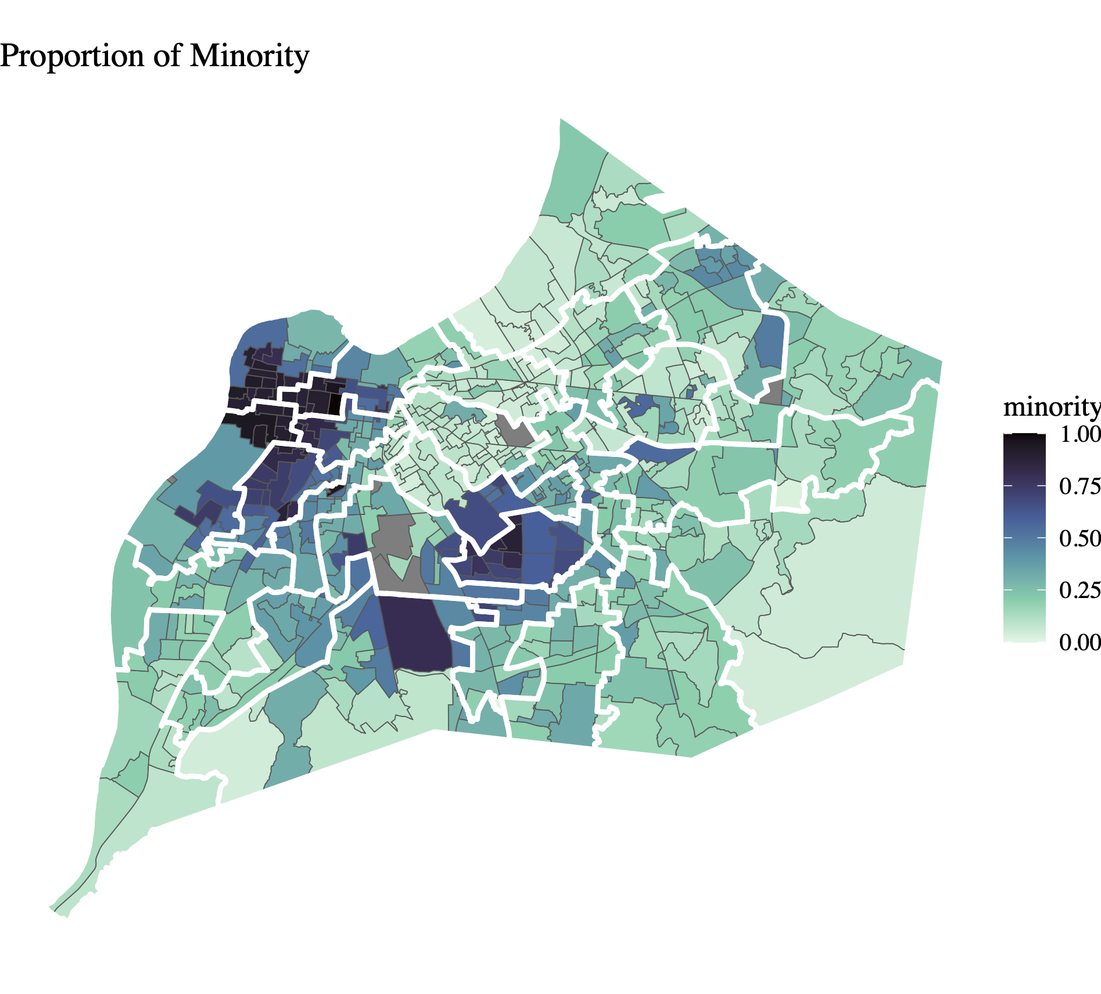
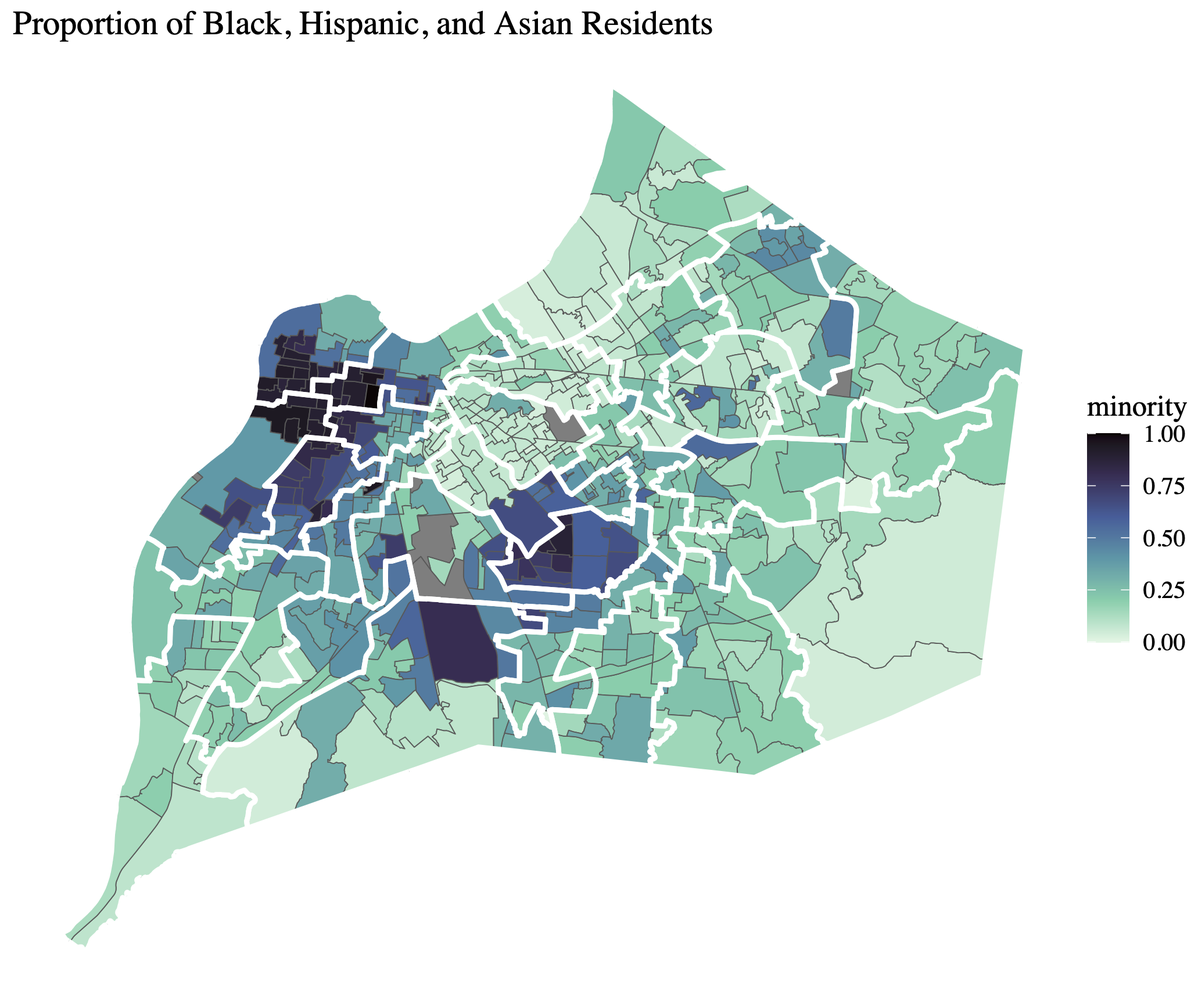
updates

diff --git a/_posts/2023-10-26-louisvillejefferson-county-metro-government-balance-kentucky/louisvillejefferson-county-metro-government-balance-kentucky.html b/_posts/2023-10-26-louisvillejefferson-county-metro-government-balance-kentucky/louisvillejefferson-county-metro-government-balance-kentucky.html
@@ -94,8 +94,8 @@ code span.wa { color: #5e5e5e; font-style: italic; } /* Warning */
 
 
   <!--  https://schema.org/Article -->
-  <meta property="article:published" itemprop="datePublished" content="2023-10-26"/>
-  <meta property="article:created" itemprop="dateCreated" content="2023-10-26"/>
+  <meta property="article:published" itemprop="datePublished" content="2023-12-04"/>
+  <meta property="article:created" itemprop="dateCreated" content="2023-12-04"/>
   <meta name="article:author" content="Itsuki Umeyama"/>
 
   <!--  https://developers.facebook.com/docs/sharing/webmasters#markup -->
@@ -113,7 +113,7 @@ code span.wa { color: #5e5e5e; font-style: italic; } /* Warning */
   <!--radix_placeholder_rmarkdown_metadata-->
 
   <script type="text/json" id="radix-rmarkdown-metadata">
-  {"type":"list","attributes":{"names":{"type":"character","attributes":{},"value":["title","description","author","date","output"]}},"value":[{"type":"character","attributes":{},"value":["Louisville/Jefferson County metro government (balance), Kentucky"]},{"type":"character","attributes":{},"value":["An analysis of the electoral competitiveness of Louisville Metro Council Elections.\n"]},{"type":"list","attributes":{},"value":[{"type":"list","attributes":{"names":{"type":"character","attributes":{},"value":["name"]}},"value":[{"type":"character","attributes":{},"value":["Itsuki Umeyama"]}]}]},{"type":"character","attributes":{},"value":["2023-10-26"]},{"type":"list","attributes":{"names":{"type":"character","attributes":{},"value":["distill::distill_article"]}},"value":[{"type":"list","attributes":{"names":{"type":"character","attributes":{},"value":["self_contained"]}},"value":[{"type":"logical","attributes":{},"value":[false]}]}]}]}
+  {"type":"list","attributes":{"names":{"type":"character","attributes":{},"value":["title","description","author","date","output"]}},"value":[{"type":"character","attributes":{},"value":["Louisville/Jefferson County metro government (balance), Kentucky"]},{"type":"character","attributes":{},"value":["An analysis of the electoral competitiveness of Louisville Metro Council Elections.\n"]},{"type":"list","attributes":{},"value":[{"type":"list","attributes":{"names":{"type":"character","attributes":{},"value":["name"]}},"value":[{"type":"character","attributes":{},"value":["Itsuki Umeyama"]}]}]},{"type":"character","attributes":{},"value":["2023-12-04"]},{"type":"list","attributes":{"names":{"type":"character","attributes":{},"value":["distill::distill_article"]}},"value":[{"type":"list","attributes":{"names":{"type":"character","attributes":{},"value":["self_contained"]}},"value":[{"type":"logical","attributes":{},"value":[false]}]}]}]}
   </script>
   <!--/radix_placeholder_rmarkdown_metadata-->
   
@@ -1521,7 +1521,7 @@ code span.wa { color: #5e5e5e; font-style: italic; } /* Warning */
 <!--radix_placeholder_front_matter-->
 
 <script id="distill-front-matter" type="text/json">
-{"title":"Louisville/Jefferson County metro government (balance), Kentucky","description":"An analysis of the electoral competitiveness of Louisville Metro Council Elections.","authors":[{"author":"Itsuki Umeyama","authorURL":"#","affiliation":"&nbsp;","affiliationURL":"#","orcidID":""}],"publishedDate":"2023-10-26T00:00:00.000+09:00","citationText":"Umeyama, 2023"}
+{"title":"Louisville/Jefferson County metro government (balance), Kentucky","description":"An analysis of the electoral competitiveness of Louisville Metro Council Elections.","authors":[{"author":"Itsuki Umeyama","authorURL":"#","affiliation":"&nbsp;","affiliationURL":"#","orcidID":""}],"publishedDate":"2023-12-04T00:00:00.000+09:00","citationText":"Umeyama, 2023"}
 </script>
 
 <!--/radix_placeholder_front_matter-->
@@ -1542,134 +1542,89 @@ code span.wa { color: #5e5e5e; font-style: italic; } /* Warning */
   
   Itsuki Umeyama
   
-<br/>2023-10-26
+<br/>2023-12-04
 </div>
 
 <div class="d-article">
-<h2 id="basic-information">Basic Information</h2>
-<h3 id="demographic">Demographic</h3>
-<p>Population<a href="#fn1" class="footnote-ref" id="fnref1" role="doc-noteref"><sup>1</sup></a>: 386,884</p>
-<table>
-<thead>
-<tr class="header">
-<th></th>
-<th>Percentage</th>
-</tr>
-</thead>
-<tbody>
-<tr class="odd">
-<td>White</td>
-<td>67.1%</td>
-</tr>
-<tr class="even">
-<td>Black or African American</td>
-<td>23.8%</td>
-</tr>
-<tr class="odd">
-<td>Hispanic or Latino</td>
-<td>6.5%</td>
-</tr>
-<tr class="even">
-<td>Asian</td>
-<td>2.7%</td>
-</tr>
-</tbody>
-</table>
-<figure>
-<img src="images/minority.png" style="width:80.0%" data-fig-align="center" alt="Figure 1: This map shows the proportion of minorities within each precinct in Louisville. Darker shades of blue indicate a higher proportion of minorities, including Black, Hispanic, and Asian populations, living in the precinct compared to the majority, White population. The thinner black lines represent precinct boundaries, while the thicker white lines represent current district boundaries." />
-<figcaption aria-hidden="true">Figure 1: This map shows the proportion of minorities within each precinct in Louisville. Darker shades of blue indicate a higher proportion of minorities, including Black, Hispanic, and Asian populations, living in the precinct compared to the majority, White population. The thinner black lines represent precinct boundaries, while the thicker white lines represent current district boundaries.</figcaption>
-</figure>
-<h3 id="louisville-metro-council">Louisville Metro Council</h3>
-<p>The Louisville Metro Council comprises 26 members who are elected from the city’s 26 districts in partisan elections. Council members serve staggered four-year terms. Since the merger with Jefferson County in 2003, the council has consistently maintained a Democratic majority. The distribution of seats held by each party is as follows (Democrats: Republicans): 15:11 (2006), 17:9 (2010), 17:9 (2014), 19:7 (2018), and 17:9 (2022)<a href="#fn2" class="footnote-ref" id="fnref2" role="doc-noteref"><sup>2</sup></a>.</p>
-<h3 id="mayoral-elections">Mayoral Elections</h3>
-<p>Democratic candidates have also consistently won in mayoral elections in Louisville. The margins between Democratic and Republican candidates have usually been substantial, often ranging from 30 to 40 percent. However, these elections can still appear competitive. For example, in the 2022 mayoral election, the margin between both candidates was only 6 percent. Additionally, the margin in the 2010 mayoral election was narrower, with a difference of just 3 percent.</p>
-<table>
-<thead>
-<tr class="header">
-<th>Year</th>
-<th style="text-align: left;">DEM</th>
-<th style="text-align: left;">REP</th>
-</tr>
-</thead>
-<tbody>
-<tr class="odd">
-<td>2006</td>
-<td style="text-align: left;">Jerry Abramson (67.2%)</td>
-<td style="text-align: left;">Kelly Downard (31.3%)</td>
-</tr>
-<tr class="even">
-<td>2010</td>
-<td style="text-align: left;">Greg Fischer (51.1%)</td>
-<td style="text-align: left;">Hal Heiner (48.4%)</td>
-</tr>
-<tr class="odd">
-<td>2014</td>
-<td style="text-align: left;">Greg Fischer (68.5%)</td>
-<td style="text-align: left;">Bob DeVore (31.3%)</td>
-</tr>
-<tr class="even">
-<td>2018</td>
-<td style="text-align: left;">Greg Fischer (61.0%)</td>
-<td style="text-align: left;">Angela Leet (36.3%)</td>
-</tr>
-<tr class="odd">
-<td>2022</td>
-<td style="text-align: left;">Craig Greenberg (51.7%)</td>
-<td style="text-align: left;">William Dieruf (46.2%)</td>
-</tr>
-</tbody>
-</table>
-<figure>
-<img src="images/precincts_voting_behavior.png" style="width:80.0%" data-fig-align="center" alt="Figure 2: This map displays precinct-level voting shares in Louisville (2022 Mayoral Election). A darker shade indicates a larger number of voters supporting either of the parties within the precinct. The black lines represent the current district boundaries, each marked with its corresponding district number." />
-<figcaption aria-hidden="true">Figure 2: This map displays precinct-level voting shares in Louisville (2022 Mayoral Election). A darker shade indicates a larger number of voters supporting either of the parties within the precinct. The black lines represent the current district boundaries, each marked with its corresponding district number.</figcaption>
-</figure>
-<h2 id="competitiveness-in-metro-council-elections">Competitiveness in Metro Council Elections</h2>
-<p>Metro Council elections in Louisville appear to be relatively competitive, even with the strong Democratic presence. For example, in 2022, two Democrats lost their seats, resulting in a shift in the Metro Council’s composition from 19 Democrats and 7 Republicans to 17 Democrats and 9 Republicans.</p>
-<p>Nonetheless, the competitiveness of Metro Council elections can be significantly affected by the districting process, as council members are chosen from each district. Similar to gerrymandering, changes in district plans can influence the level of competitiveness. While it may seem that Metro Council elections in Louisville are competitive, it remains uncertain how closely the current level of competitiveness aligns with an ideal state, given the absence of a baseline for comparison. Therefore, in the following sections, I will delve into assessing the competitiveness of Metro Council elections in Louisville.</p>
+<p><strong>Overview:</strong> How competitive are the Metro Council elections in Louisville, Kentucky? While elections ideally should be competitive, assessing the competitiveness is challenging due to the absence of a baseline for comparison. To address this, I first generate simulated plans using the Sequential Monte Carlo (SMC) algorithm and then calculate the baseline using these plans. I found that the competitiveness of the Metro Council elections significantly decreased in 19 out of 26 districts. Furthermore, additional analysis reveals that the reduced competitiveness has favored the Democratic incumbent, resulting in a gain of 2 seats.</p>
+<h2 id="competitiveness-in-louisville-metro-council-elections">Competitiveness in Louisville Metro Council Elections</h2>
+<p>A competitive election, challenging for both parties, is considered one of the essential elements of a healthy democracy. These elections allow a variety of candidates to present their ideas and perspectives, ensuring that a broad range of views is represented in the political process. Moreover, in such competitive elections, politicians are more likely to respond to the needs of the public out of fear of losing elections. As a result, competitive elections play a crucial role in securing both the representation of the public and the accountability of politicians.</p>
+<p>Metro Council elections in Louisville appear to be relatively competitive, even with the strong Democratic presence. In 2022 Metro Council elections, for example, the results of all 6 districts which had both Democrat and Republican candidates fell within a 10% margin. In addition, there were seat changes in two districts from Democrats to Republicans<a href="#fn1" class="footnote-ref" id="fnref1" role="doc-noteref"><sup>1</sup></a>.</p>
+<p>Nevertheless, the smaller margins in electoral results and the seat changes may not provide a complete picture of how closely the current competitiveness aligns with its potential level. The competitiveness of Metro Council elections can be significantly influenced by the district plan, and an alternative plan could ensure a higher level of competitiveness. Therefore, it is essential to assess the competitiveness by comparing it to its potential level, rather than solely relying on actual electoral results and seat changes.</p>
+<p>However, the absence of a baseline for comparison poses a challenge to such an assessment. This challenge stems from the requirement for numerous alternative district plans with the same redistricting rules, political geography, and physical geography as the enacted plan to establish a baseline for comparison.</p>
+<p>In the following sections, I will address this issue by using the SMC algorithm<a href="#fn2" class="footnote-ref" id="fnref2" role="doc-noteref"><sup>2</sup></a> to generate simulated plans, and assess the competitiveness of Metro Council elections in Louisville.</p>
 <h2 id="assessing-electoral-competitiveness-with-algorithm-assisted-redistricting-methodology">Assessing Electoral Competitiveness with Algorithm-Assisted Redistricting Methodology</h2>
 <h3 id="approach">Approach</h3>
-<p>Evaluating the baseline of competitiveness is a challenging task, but the Algorithm-Assisted Redistricting Methodology provides a valuable tool for determining where the standard level of competitiveness in Louisville should lie. Originally developed to identify gerrymandering, this methodology generates numerous plans with the same constraints<a href="#fn3" class="footnote-ref" id="fnref3" role="doc-noteref"><sup>3</sup></a>, political geography, and physical geography as the current district plan. Consequently, it provides an essential baseline for our assessment, which is particularly relevant when evaluating the competitiveness of the current district plan in Louisville.</p>
-<p>To generate the simulated plans using the Algorithm-Assisted Redistricting Methodology, a specific constraint was introduced. Given that many public concerns in Louisville revolve around the current district plan’s neglect of neighborhoods<a href="#fn4" class="footnote-ref" id="fnref4" role="doc-noteref"><sup>4</sup></a>, a constraint was imposed to minimize neighborhood splits. Next, 175,000 district plans were sampled across two independent runs of the Sequential Monte Carlo (SMC) algorithm. From these simulated plans, 5,000 of them were randomly selected for further analysis.</p>
-<!-- -->
-<p>Electoral competitiveness, in this context, is defined as the difference in vote counts between Democrats and Republicans. As such, I calculated the difference in vote counts within each district across all simulated plans. I then systematically organized the differences in vote counts of districts from smallest to largest within a simulated plan. This process was repeated across 5,000 plans, yielding distributions of differences in vote counts for each district, ordered accordingly. Finally, I assessed the competitiveness of each current district by comparing it to the distribution of the corresponding simulated district.</p>
-<p>Within this approach, a district is considered to have ideal competitiveness when its actual competitiveness falls within the 25th to 75th percentile of the corresponding distribution, or when it falls below the 25th percentile (more competitive than most of the simulated districts). This is because a smaller difference in vote counts signifies a more competitive election. Conversely, the competitiveness is notably reduced when the actual competitiveness exceeds the 75th percentile.</p>
-<h3 id="results">Results</h3>
-<p>The results suggest that there is considerable room for improvement in the competitiveness of Louisville’s metro council elections. Out of the 26 districts, 19 were found to be less competitive, while 4 districts are more competitive and 3 districts fall within the normal range of competitiveness (see the lower graph of Figure 3).</p>
+<p>Identifying the baseline of competitiveness is a challenging task, but the SMC algorithm provides a valuable tool for determining where the standard level of competitiveness in Louisville should lie. Originally developed to identify gerrymandering, this algorithm generates numerous plans with the same redistricting requirements<a href="#fn3" class="footnote-ref" id="fnref3" role="doc-noteref"><sup>3</sup></a>, political geography, and physical geography as the current district plan. Consequently, it provides various baselines for assessing the district plan, including for the competitiveness of Metro Council elections.</p>
+<p>In this assessment, electoral competitiveness is measured by the difference in vote counts between Democrats and Republicans. A smaller (larger) difference suggests higher (lower) competitiveness. I calculate the difference in vote counts of each district across all simulated plans, and then arrange the districts from the smallest difference in vote counts to the largest within the simulated plan. This process is repeated across 5,000 plans, generating distributions of differences in vote counts for each district, ordered accordingly. Finally, I assess the competitiveness of each current district by comparing it to the corresponding distributions.</p>
+<p>I consider a district has ideal competitiveness when its actual competitiveness falls within the 25th to 75th percentile of the corresponding distribution, or when it falls below the 25th percentile (more competitive than most of the simulated districts). Conversely, I consider the competitiveness of a district is notably reduced when the actual competitiveness exceeds the 75th percentile of the distribution.</p>
+<h3 id="basic-information-on-louisville">Basic Information on Louisville</h3>
+<h4 id="louisville-metro-council">Louisville Metro Council</h4>
+<p>The Louisville Metro Council comprises 26 members who are elected from the city’s 26 districts in partisan elections. Council members serve staggered four-year terms. Since the merger with Jefferson County in 2003, the council has consistently maintained a Democratic majority. The distribution of seats held by each party is as follows (Democrats: Republicans): 15:11 (2006), 17:9 (2010), 17:9 (2014), 19:7 (2018), and 17:9 (2022).</p>
+<h4 id="demographic">Demographic</h4>
+<p>In 2020, the population of Louisville stood at 386,884, with approximately 67% identifying as White, 24% as Black, 7% as Hispanic, and 3% as Asian<a href="#fn4" class="footnote-ref" id="fnref4" role="doc-noteref"><sup>4</sup></a>.</p>
+<div data-layout-ncol="2">
 <figure>
-<img src="images/competitiveness_2.png" style="width:100.0%" data-fig-align="center" alt="Figure 3: The graph above shows the probability of winning between the Democratic Party and the Republican Party in each district, corresponding to the graph below. The graph below shows district competitiveness, measured by the difference in vote counts, with districts ordered by their level of competitiveness. A larger (smaller) difference in vote counts indicate the election is less (more) competitive. Both graphs are based on samples from the simulations." />
-<figcaption aria-hidden="true">Figure 3: The graph above shows the probability of winning between the Democratic Party and the Republican Party in each district, corresponding to the graph below. The graph below shows district competitiveness, measured by the difference in vote counts, with districts ordered by their level of competitiveness. A larger (smaller) difference in vote counts indicate the election is less (more) competitive. Both graphs are based on samples from the simulations.</figcaption>
+<img src="images/minority.png" style="width:80.0%" data-fig-align="center" alt="Figure 1: This map shows the proportion of Black, Hispanic, and Asian residents within each precinct in Louisville. Darker shades of blue indicate a higher proportion of minorities, including Black, Hispanic, and Asian populations, living in the precinct compared to White population. The thinner black lines represent precinct boundaries, while the thicker white lines represent current district boundaries." />
+<figcaption aria-hidden="true">Figure 1: This map shows the proportion of Black, Hispanic, and Asian residents within each precinct in Louisville. Darker shades of blue indicate a higher proportion of minorities, including Black, Hispanic, and Asian populations, living in the precinct compared to White population. The thinner black lines represent precinct boundaries, while the thicker white lines represent current district boundaries.</figcaption>
 </figure>
 <figure>
-<img src="images/map_competitiveness.png" style="width:80.0%" data-fig-align="center" alt="Figure 4: This map illustrates the results as follows: pink represents districts that are less competitive, blue represents districts that are more competitive, and yellow represents those falling within the normal range." />
-<figcaption aria-hidden="true">Figure 4: This map illustrates the results as follows: pink represents districts that are less competitive, blue represents districts that are more competitive, and yellow represents those falling within the normal range.</figcaption>
+<img src="images/precincts_voting_behavior.png" style="width:80.0%" data-fig-align="center" alt="Figure 2: This map shows precinct-level voting shares in Louisville (2022 Mayoral Election). A darker shade indicates a larger number of voters supporting either of the parties within the precinct. The black lines represent the current district boundaries, each marked with its corresponding district number." />
+<figcaption aria-hidden="true">Figure 2: This map shows precinct-level voting shares in Louisville (2022 Mayoral Election). A darker shade indicates a larger number of voters supporting either of the parties within the precinct. The black lines represent the current district boundaries, each marked with its corresponding district number.</figcaption>
+</figure>
+</div>
+<h3 id="results">Results</h3>
+<figure>
+<img src="images/map_competitiveness.png" style="width:90.0%" data-fig-align="center" alt="Figure 3: This map illustrates the results as follows: pink represents districts that are less competitive, blue represents districts that are more competitive, and yellow represents those falling within the normal range." />
+<figcaption aria-hidden="true">Figure 3: This map illustrates the results as follows: pink represents districts that are less competitive, blue represents districts that are more competitive, and yellow represents those falling within the normal range.</figcaption>
+</figure>
+<p>The results suggest that there is considerable room for improvement in the competitiveness of Louisville’s Metro Council elections. Out of the 26 districts, 19 were found to be less competitive, while 4 districts are more competitive and 3 districts fall within the normal range of competitiveness (see the lower graph of Figure 4 for more details).</p>
+<figure>
+<img src="images/competitiveness_2.png" style="width:100.0%" data-fig-align="center" alt="Figure 4: The graph above shows the probability of winning between the Democratic Party and the Republican Party in each district, corresponding to the graph below. The graph below shows district competitiveness, measured by the difference in vote counts, with districts ordered by their level of competitiveness. A larger (smaller) difference in vote counts indicate the election is less (more) competitive. Both graphs are based on samples from the simulations." />
+<figcaption aria-hidden="true">Figure 4: The graph above shows the probability of winning between the Democratic Party and the Republican Party in each district, corresponding to the graph below. The graph below shows district competitiveness, measured by the difference in vote counts, with districts ordered by their level of competitiveness. A larger (smaller) difference in vote counts indicate the election is less (more) competitive. Both graphs are based on samples from the simulations.</figcaption>
 </figure>
 <h3 id="does-reduced-competitiveness-benefit-the-incumbent">Does Reduced Competitiveness Benefit the Incumbent?</h3>
-<p>The competitiveness of elections in districts can significantly decrease when partisan gerrymandering is employed to reduce the number of districts which could swing towards the rival party. In light of this, I examine whether this reduced competitiveness in Louisville benefits the incumbent Democratic Party (DEM).</p>
-<p>In addition to assessing the competitiveness, I calculated the probability of each district being won by either Democrats or Republicans (as depicted in the upper graph of Figure 3). This additional analysis helped me identify potential cases of gerrymandering. For example, if a district is less competitive and primarily Democratic, but the calculated probability suggests a likelihood of over 55% for a Republican victory, it raises the possibility of gerrymandering.</p>
-<p>Figure 3 reveals that out of the 19 districts found to be less competitive, 4 of them (Districts 7, 17, 21, and 26) are currently represented by Democratic candidates, even though the probability indicates a greater likelihood of Republican success, with over 55%. Remarkably, this reduced competitiveness also appears to work in favor of the Republican Party, leading to 2 districts (Districts 19 and 20) that are more favorable to Republicans.</p>
+<p>Given that the competitiveness of Metro Council elections is heavily influenced by the district plan in use, the significant decrease in competitiveness observed in Louisville raises a question: Does reduced competitiveness benefit the Democratic incumbent?</p>
+<p>In addition to assessing competitiveness, I calculated the probability of each district being won by either Democrats or Republicans using simulated plans (as shown in the upper graph of Figure 4). This analysis helped me identify potential cases where decreased competitiveness creates a favorable situation for the incumbent. For example, if a district is less competitive and primarily Democratic, but the calculated probability suggests a likelihood of over 55% for a Republican victory, it raises the possibility of gerrymandering to reduce competitiveness.</p>
+<p>Figure 4 reveals that out of the 19 districts found to be less competitive, 4 of them (Districts 7, 17, 21, and 26) are currently represented by Democratic candidates, even though the probability indicates a greater likelihood of Republican victory with over 55%. However, on the other hand, it is worth noting that this diminished competitiveness also seems to favor the Republican Party, particularly in two districts (Districts 19 and 20) that lean more towards Republicans.</p>
 <p>This finding suggests that the reduced competitiveness in Louisville ultimately appears to contribute to creating favorable conditions for the incumbent, resulting in a 2-seat advantage.</p>
 <h2 id="methods-and-materials">Methods and Materials</h2>
 <h3 id="methods">Methods</h3>
-<p>I sampled 175,000 districting plans for Louisville across two independent runs of the Sequential Monte Carlo (SMC) algorithm. I performed the analysis above with 5,000 samples from one of the SMC runs.</p>
-<h4 id="pre-processing-notes">Pre-processing Notes</h4>
-<ol type="1">
-<li>Excluded 32 precincts<a href="#fn5" class="footnote-ref" id="fnref5" role="doc-noteref"><sup>5</sup></a> for which geographical data were unavailable.</li>
-</ol>
-<!-- -->
-<ol start="2" type="1">
-<li><p>Included 5 elections, Mayor, US Senator, County Judge/Executive, County Clerk, and Coroner to calculate the estimated baseline partisanship.</p></li>
-<li><p>Combined all geographical data of neighborhoods, municipalities and places into one dataset, removing any overlaps.</p></li>
-</ol>
+<p>I generated 175,000 district plans in two independent runs of the SMC algorithm, with a constraint to minimize neighborhood splits. This constraint reflects Louisville residents’ concerns about the current district plan’s neglect of neighborhoods<a href="#fn5" class="footnote-ref" id="fnref5" role="doc-noteref"><sup>5</sup></a>. From these simulated plans, 5,000 were randomly selected for further analysis.</p>
+<p>Before generating simulated plans, I conducted the following pre-processing steps on the data:</p>
+<ul>
+<li>Excluded 32 precincts<a href="#fn6" class="footnote-ref" id="fnref6" role="doc-noteref"><sup>6</sup></a> for which geographical data were unavailable.</li>
+<li>Included data from 5 elections held in 2022 (Mayor, US Senator, County Judge/Executive, County Clerk, and Coroner) to calculate the estimated baseline partisanship.</li>
+</ul>
+<h4 id="neighborhoods">Neighborhoods</h4>
+<p>Since the merger with Jefferson County in 2003, there are three distinct types of perceived local boundaries in Louisville; Neighborhoods, Municipalities, and Places. All three boundary types hold importance in understanding local communities; therefore, I combined all geographical data of neighborhoods, municipalities, and places, into one dataset, eliminating any overlaps.</p>
+<ul>
+<li><p><strong>Neighborhoods:</strong> lie within the Louisville city boundary that predates the city-county merger.</p></li>
+<li><p><strong>Municipalities:</strong> represent smaller cities within Louisville, and before the merger, these municipalities existed as independent governmental entities.</p></li>
+<li><p><strong>Places:</strong> located outside the former Louisville city boundary, where people have historically settled densely, and they are locally identified by their respective name.</p></li>
+</ul>
 <figure>
-<img src="images/local_ties.png" style="width:80.0%" data-fig-align="center" alt="Figure 4: Neighborhoods used for redistricting simulations. Since Louisville has merged with Jefferson County in 2003, there are three types of perceived local communities: Neighborhoods(yellow), Municipalities(green), Places(blue)." />
-<figcaption aria-hidden="true">Figure 4: Neighborhoods used for redistricting simulations. Since Louisville has merged with Jefferson County in 2003, there are three types of perceived local communities: Neighborhoods(yellow), Municipalities(green), Places(blue).</figcaption>
+<img src="images/local_ties.png" style="width:80.0%" alt="Figure 5: Neighborhoods used for redistricting simulations. Neighborhoods(yellow), Municipalities(green), and Places(blue)." />
+<figcaption aria-hidden="true">Figure 5: Neighborhoods used for redistricting simulations. Neighborhoods(yellow), Municipalities(green), and Places(blue).</figcaption>
+</figure>
+<h4 id="vra-compliance">VRA Compliance</h4>
+<p>Simulated plans must also comply with the Voting Rights Act (VRA), and prevent gerrymandering that may disproportionately disadvantage minority populations. VRA compliance necessitates a specific number of minority-majority districts, where minorities constitute over 50% of the voting-age population. As shown in the figure below, Louisville already possesses approximately five Minority Opportunity-to-Elect districts. Therefore, I did not impose additional constraints in this regard.</p>
+<figure>
+<img src="images/minority_vap.png" style="width:80.0%" data-fig-align="center" alt="Figure 6: The graph shows minority voting age population share, with districts ordered from smaller share to larger share. Each point represents a simulated district, with blue indicating that the district is majority Democratic, and red indicating a majority Republican." />
+<figcaption aria-hidden="true">Figure 6: The graph shows minority voting age population share, with districts ordered from smaller share to larger share. Each point represents a simulated district, with blue indicating that the district is majority Democratic, and red indicating a majority Republican.</figcaption>
+</figure>
+<h4 id="validation-of-the-simulated-plans">Validation of the Simulated Plans</h4>
+<p>Simulated plans should also be realistic enough to serve as viable alternatives to the enacted plan. They must incorporate various constraints, including population balance, geographical compactness, and the preservation of administrative boundaries. In the following graphs, we can see that the simulated plans are unique, and they generally perform better without deviating significantly from the current plan in terms of population deviation, geographical compactness, and minority Voting Age Population (VAP) share. For neighborhoods, while simulated plans, on average, involve more splitting than the current plan, I attempted to minimize such splits by imposing a constraint.</p>
+<figure>
+<img src="images/validation_20230914_1908.png" data-fig-align="center" alt="Figure 7: The validation plots above indicate that the simulated plans meet the basic criteria of redistricting. Firstly, these simulated plans are unique (with few similar plans), distribute populations equally in each districts, and have a sufficient level of compactness (see the first four graphs). Moreover, the graph in the third row, Compactness: Polsby-Popper, suggests that the current district plan could be made more compact. Additionally, the graph in the fifth row, Minority VAP share, indicates that in districts 3 and 4, minority groups are more concentrated than the simulated average, but aside from that, there is little evidence of arbitrary minority group clustering. The last graph represents suggested plans from the simulations." />
+<figcaption aria-hidden="true">Figure 7: The validation plots above indicate that the simulated plans meet the basic criteria of redistricting. Firstly, these simulated plans are unique (with few similar plans), distribute populations equally in each districts, and have a sufficient level of compactness (see the first four graphs). Moreover, the graph in the third row, Compactness: Polsby-Popper, suggests that the current district plan could be made more compact. Additionally, the graph in the fifth row, Minority VAP share, indicates that in districts 3 and 4, minority groups are more concentrated than the simulated average, but aside from that, there is little evidence of arbitrary minority group clustering. The last graph represents suggested plans from the simulations.</figcaption>
 </figure>
 <h3 id="materials">Materials</h3>
 <h4 id="data">Data</h4>
 <ul>
 <li><p>Election Data</p>
 <ul>
-<li>General elections in Louisville 2022 (available at <a href="https://elections.jeffersoncountyclerk.org/election-results/">Jefferson County Clerk Election Center</a>)</li>
+<li><a href="https://elections.jeffersoncountyclerk.org/election-results/">General elections in Louisville 2022</a></li>
 </ul></li>
 <li><p>Geographical Data</p>
 <ul>
@@ -1678,26 +1633,18 @@ code span.wa { color: #5e5e5e; font-style: italic; } /* Warning */
 <li><a href="https://www.lojic.org/neighborhoods">Neighborhoods, Municipalities, and Places</a></li>
 </ul></li>
 </ul>
-<h4 id="vra-compliance">VRA Compliance</h4>
-<figure>
-<img src="images/minority_vap.png" style="width:80.0%" data-fig-align="center" alt="Figure 5: The graph shows minority voting age population share, with districts ordered from smaller share to larger share. Each point represents a simulated district, with blue indicating that the district is majority Democratic, and red indicating a majority Republican." />
-<figcaption aria-hidden="true">Figure 5: The graph shows minority voting age population share, with districts ordered from smaller share to larger share. Each point represents a simulated district, with blue indicating that the district is majority Democratic, and red indicating a majority Republican.</figcaption>
-</figure>
-<p>The figure above shows that Louisville already has approximately five Black opportunity-to-elect districts. Therefore, I did not impose additional constraints for simulations in this regard. I have also conducted a validation for the VRA Compliance in the simulated plans, and it has been confirmed that VRA Compliance is guaranteed in these plans.</p>
-<h4 id="validation-plots">Validation Plots</h4>
-<figure>
-<img src="images/validation_20230914_1908.png" data-fig-align="center" alt="Figure 6: The validation plots above indicate that the simulated plans meet the basic criteria of redistricting. Firstly, these simulated plans are unique (with few similar plans), distribute populations equally in each districts, and have a sufficient level of compactness (see the first four graphs). Moreover, the graph in the third row, Compactness: Polsby-Popper, suggests that the current district plan could be made more compact. Additionally, the graph in the fifth row, Minority VAP share, indicates that in districts 3 and 4, minority groups are more concentrated than the simulated average, but aside from that, there is little evidence of arbitrary minority group clustering. The last graph represents suggested plans from the simulations." />
-<figcaption aria-hidden="true">Figure 6: The validation plots above indicate that the simulated plans meet the basic criteria of redistricting. Firstly, these simulated plans are unique (with few similar plans), distribute populations equally in each districts, and have a sufficient level of compactness (see the first four graphs). Moreover, the graph in the third row, Compactness: Polsby-Popper, suggests that the current district plan could be made more compact. Additionally, the graph in the fifth row, Minority VAP share, indicates that in districts 3 and 4, minority groups are more concentrated than the simulated average, but aside from that, there is little evidence of arbitrary minority group clustering. The last graph represents suggested plans from the simulations.</figcaption>
-</figure>
+<h2 id="conclusion">Conclusion</h2>
+<p>The competitiveness of Metro Council elections is heavily influenced by the district plan employed. However, assessing how closely the current competitiveness aligns with the potential level has been challenging due to the lack of a baseline for comparison. The SMC algorithm addresses this issue by generating numerous simulated plans with the same political geography and redistricting rules as the current one. I found a significant reduction in the competitiveness of Louisville Metro Council elections across 19 out of 26 districts. Furthermore, this diminished competitiveness favors the incumbent Democrat in the 2-seat advantage.</p>
 <div class="sourceCode" id="cb1"><pre class="sourceCode r distill-force-highlighting-css"><code class="sourceCode r"></code></pre></div>
 <section id="footnotes" class="footnotes footnotes-end-of-document" role="doc-endnotes">
 <hr />
 <ol>
-<li id="fn1"><p>United States Census Bureau, <em>Quick Facts Louisville city, Kentucky; Louisville/Jefferson County metro government (balance), Kentucky</em>, <a href="https://www.census.gov/quickfacts/fact/table/louisvillecitykentucky,louisvillejeffersoncountymetrogovernmentbalancekentucky/POP010220" class="uri">https://www.census.gov/quickfacts/fact/table/louisvillecitykentucky,louisvillejeffersoncountymetrogovernmentbalancekentucky/POP010220</a><a href="#fnref1" class="footnote-back" role="doc-backlink">↩</a></p></li>
-<li id="fn2"><p>All information regarding the elections in Louisville is based on the official statements of votes cast available at the website below. Jefferson County Clerk Election Center, <em>Election Results</em>, <a href="https://elections.jeffersoncountyclerk.org/election-results/" class="uri">https://elections.jeffersoncountyclerk.org/election-results/</a><a href="#fnref2" class="footnote-back" role="doc-backlink">↩</a></p></li>
+<li id="fn1"><p>All information regarding the elections in Louisville is based on the official statements of votes cast available at the website below. Jefferson County Clerk Election Center, <em>Election Results</em>, <a href="https://elections.jeffersoncountyclerk.org/election-results/" class="uri">https://elections.jeffersoncountyclerk.org/election-results/</a><a href="#fnref1" class="footnote-back" role="doc-backlink">↩</a></p></li>
+<li id="fn2"><p>McCartan, C., &amp; Imai, K. (2023). Sequential Monte Carlo for sampling balanced and compact redistricting plans. The Annals of Applied Statistics, 17(4), 3300-3323.<a href="#fnref2" class="footnote-back" role="doc-backlink">↩</a></p></li>
 <li id="fn3"><p>Redistricting requirements in Louisville: in accordance with Kentucky state statutes, Metro Council boundaries must be compact and contiguous, have equal populations, and respect existing neighborhood, community, and city boundaries.<a href="#fnref3" class="footnote-back" role="doc-backlink">↩</a></p></li>
-<li id="fn4"><p>Louisville-Jefferson County Metro Government, <em>Redistricting Information</em>, <a href="https://louisvilleky.gov/government/metro-council/redistricting-information" class="uri">https://louisvilleky.gov/government/metro-council/redistricting-information</a><a href="#fnref4" class="footnote-back" role="doc-backlink">↩</a></p></li>
-<li id="fn5"><p>The excluded precincts are: A141, A143, A155, B186, E186, E187, G197, H146, H161, H170, H172, H174, I143, J142, J143, J161, J167, K136, M187, M190, M204, M205, M206, M207, M208, M209, N124, N127, N159, O139, Q147, V135.<a href="#fnref5" class="footnote-back" role="doc-backlink">↩</a></p></li>
+<li id="fn4"><p>United States Census Bureau, <em>Quick Facts Louisville city, Kentucky; Louisville/Jefferson County metro government (balance), Kentucky</em>, <a href="https://www.census.gov/quickfacts/fact/table/louisvillecitykentucky,louisvillejeffersoncountymetrogovernmentbalancekentucky/POP010220" class="uri">https://www.census.gov/quickfacts/fact/table/louisvillecitykentucky,louisvillejeffersoncountymetrogovernmentbalancekentucky/POP010220</a><a href="#fnref4" class="footnote-back" role="doc-backlink">↩</a></p></li>
+<li id="fn5"><p>Louisville-Jefferson County Metro Government, <em>Redistricting Information</em>, <a href="https://louisvilleky.gov/government/metro-council/redistricting-information" class="uri">https://louisvilleky.gov/government/metro-council/redistricting-information</a><a href="#fnref5" class="footnote-back" role="doc-backlink">↩</a></p></li>
+<li id="fn6"><p>The excluded precincts are: A141, A143, A155, B186, E186, E187, G197, H146, H161, H170, H172, H174, I143, J142, J143, J161, J167, K136, M187, M190, M204, M205, M206, M207, M208, M209, N124, N127, N159, O139, Q147, V135.<a href="#fnref6" class="footnote-back" role="doc-backlink">↩</a></p></li>
 </ol>
 </section>
 <!--radix_placeholder_article_footer-->
